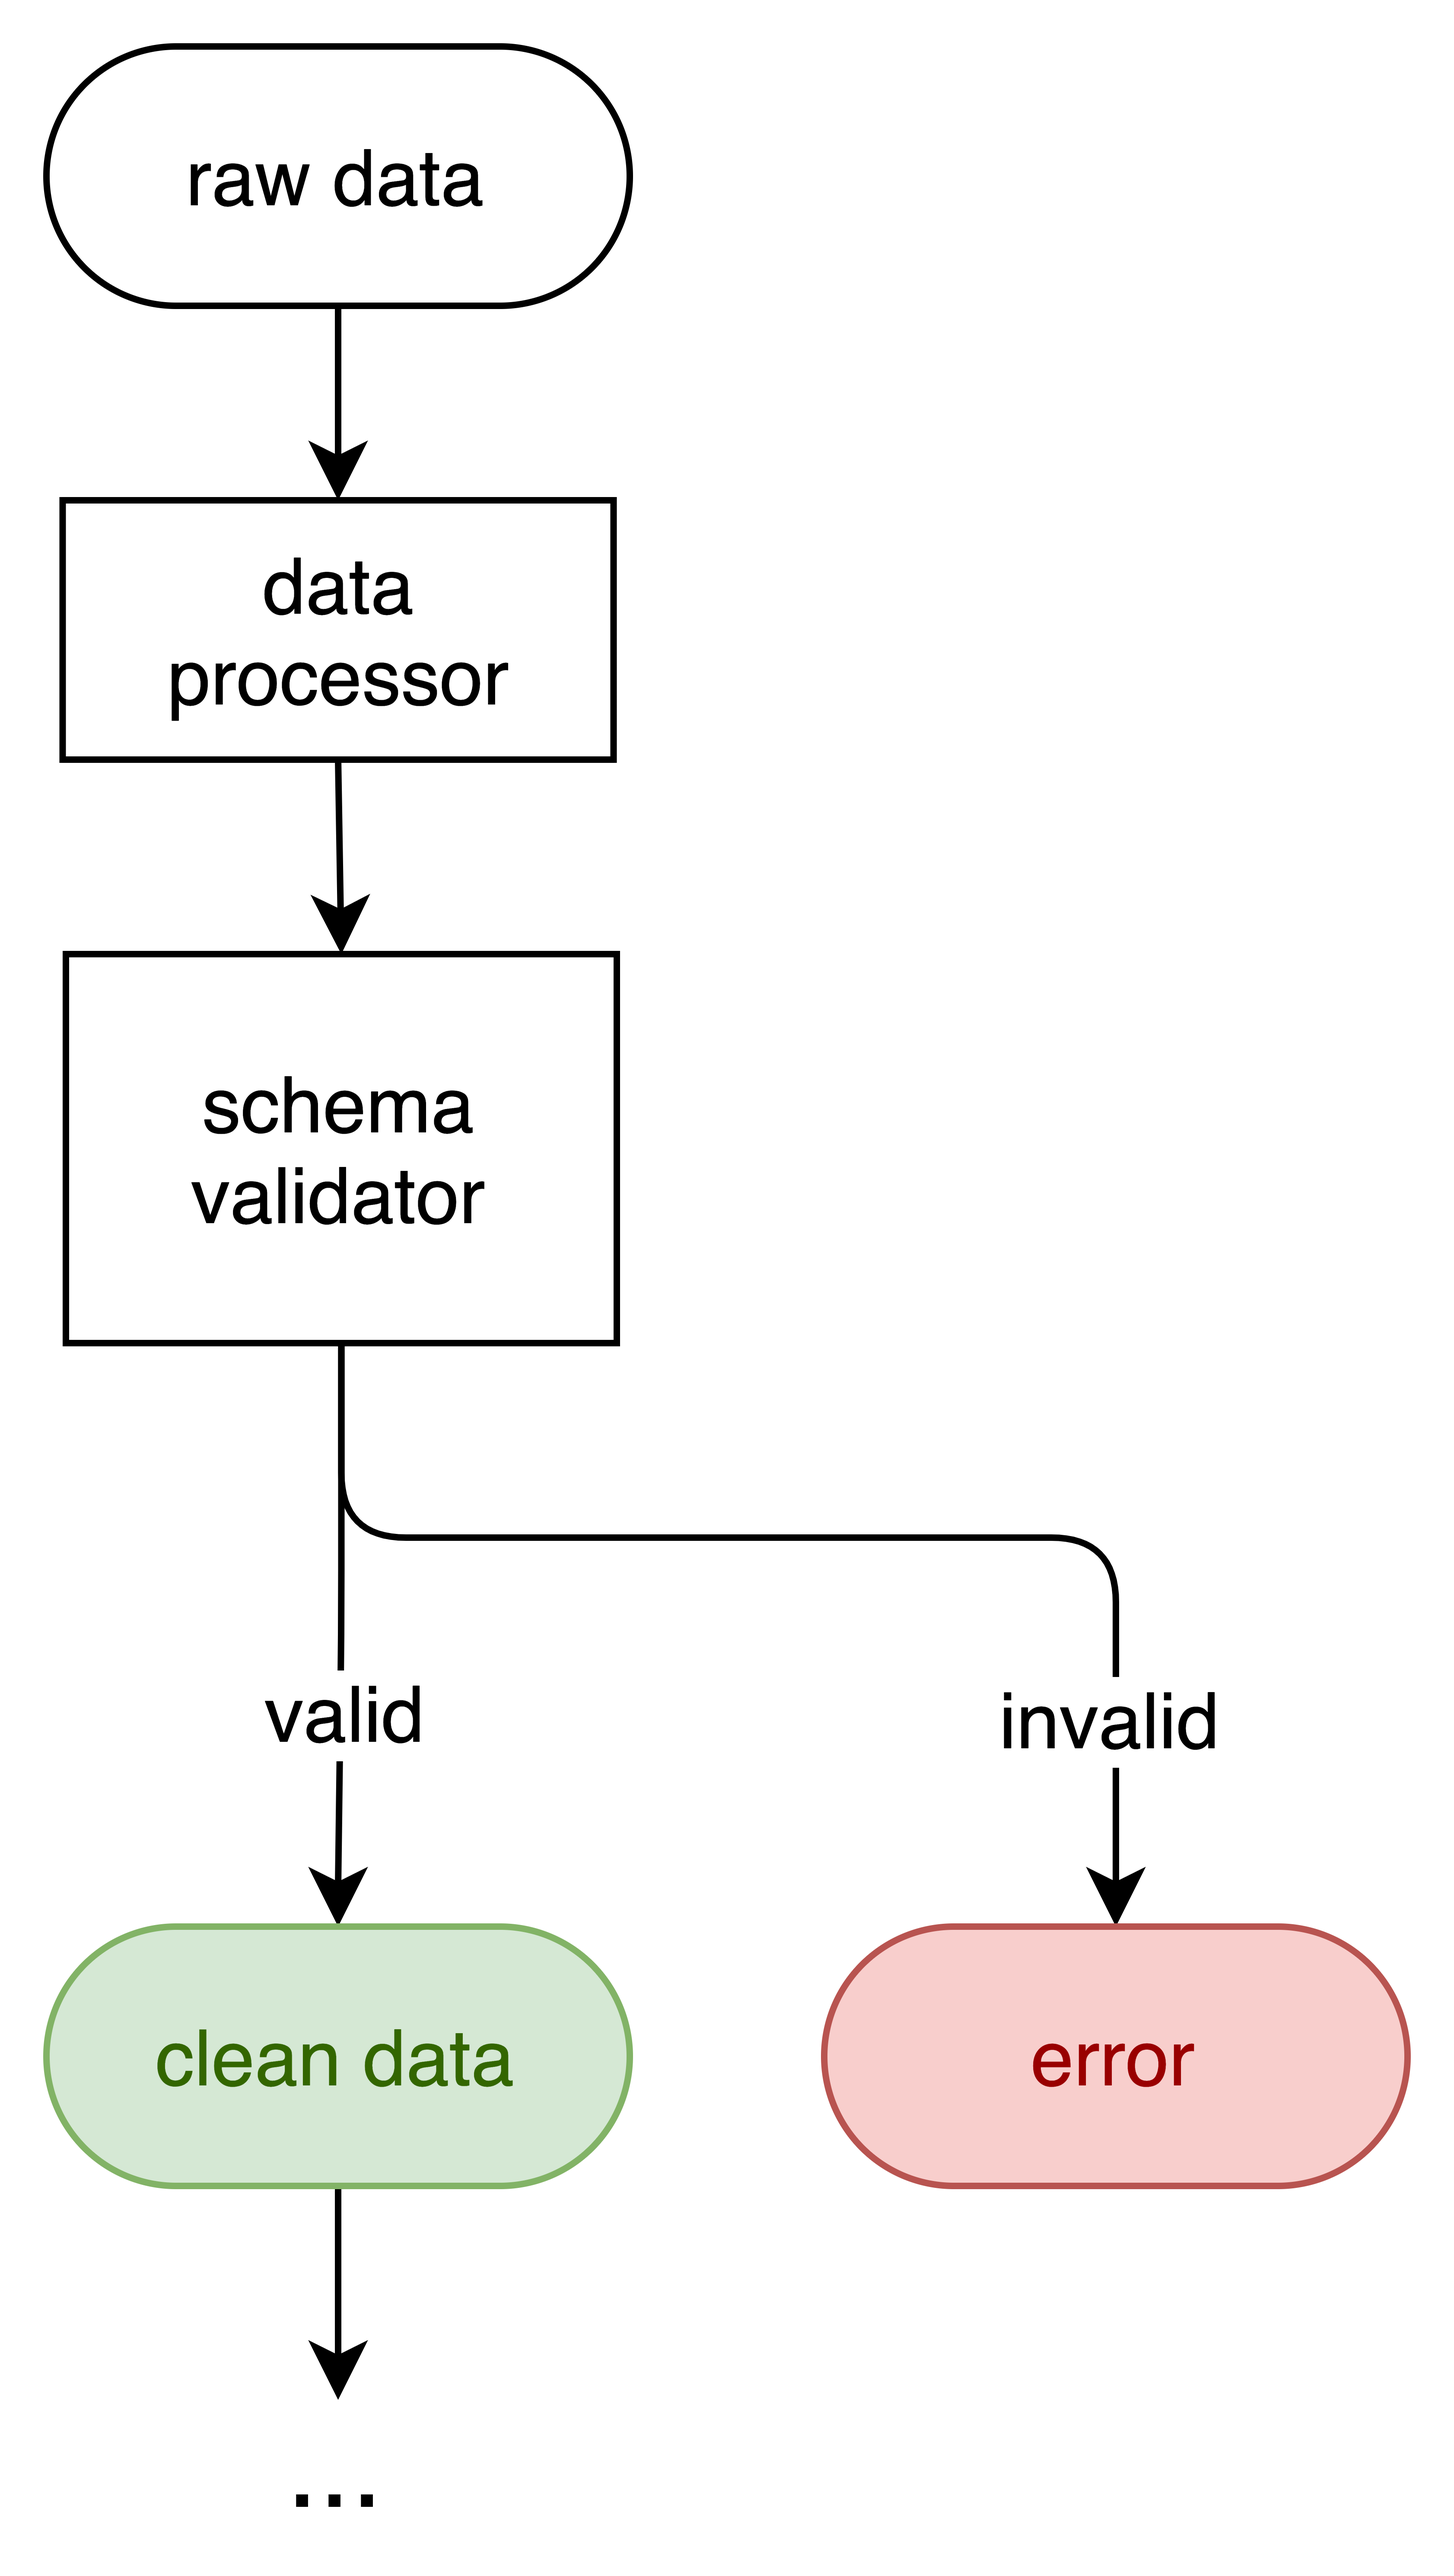
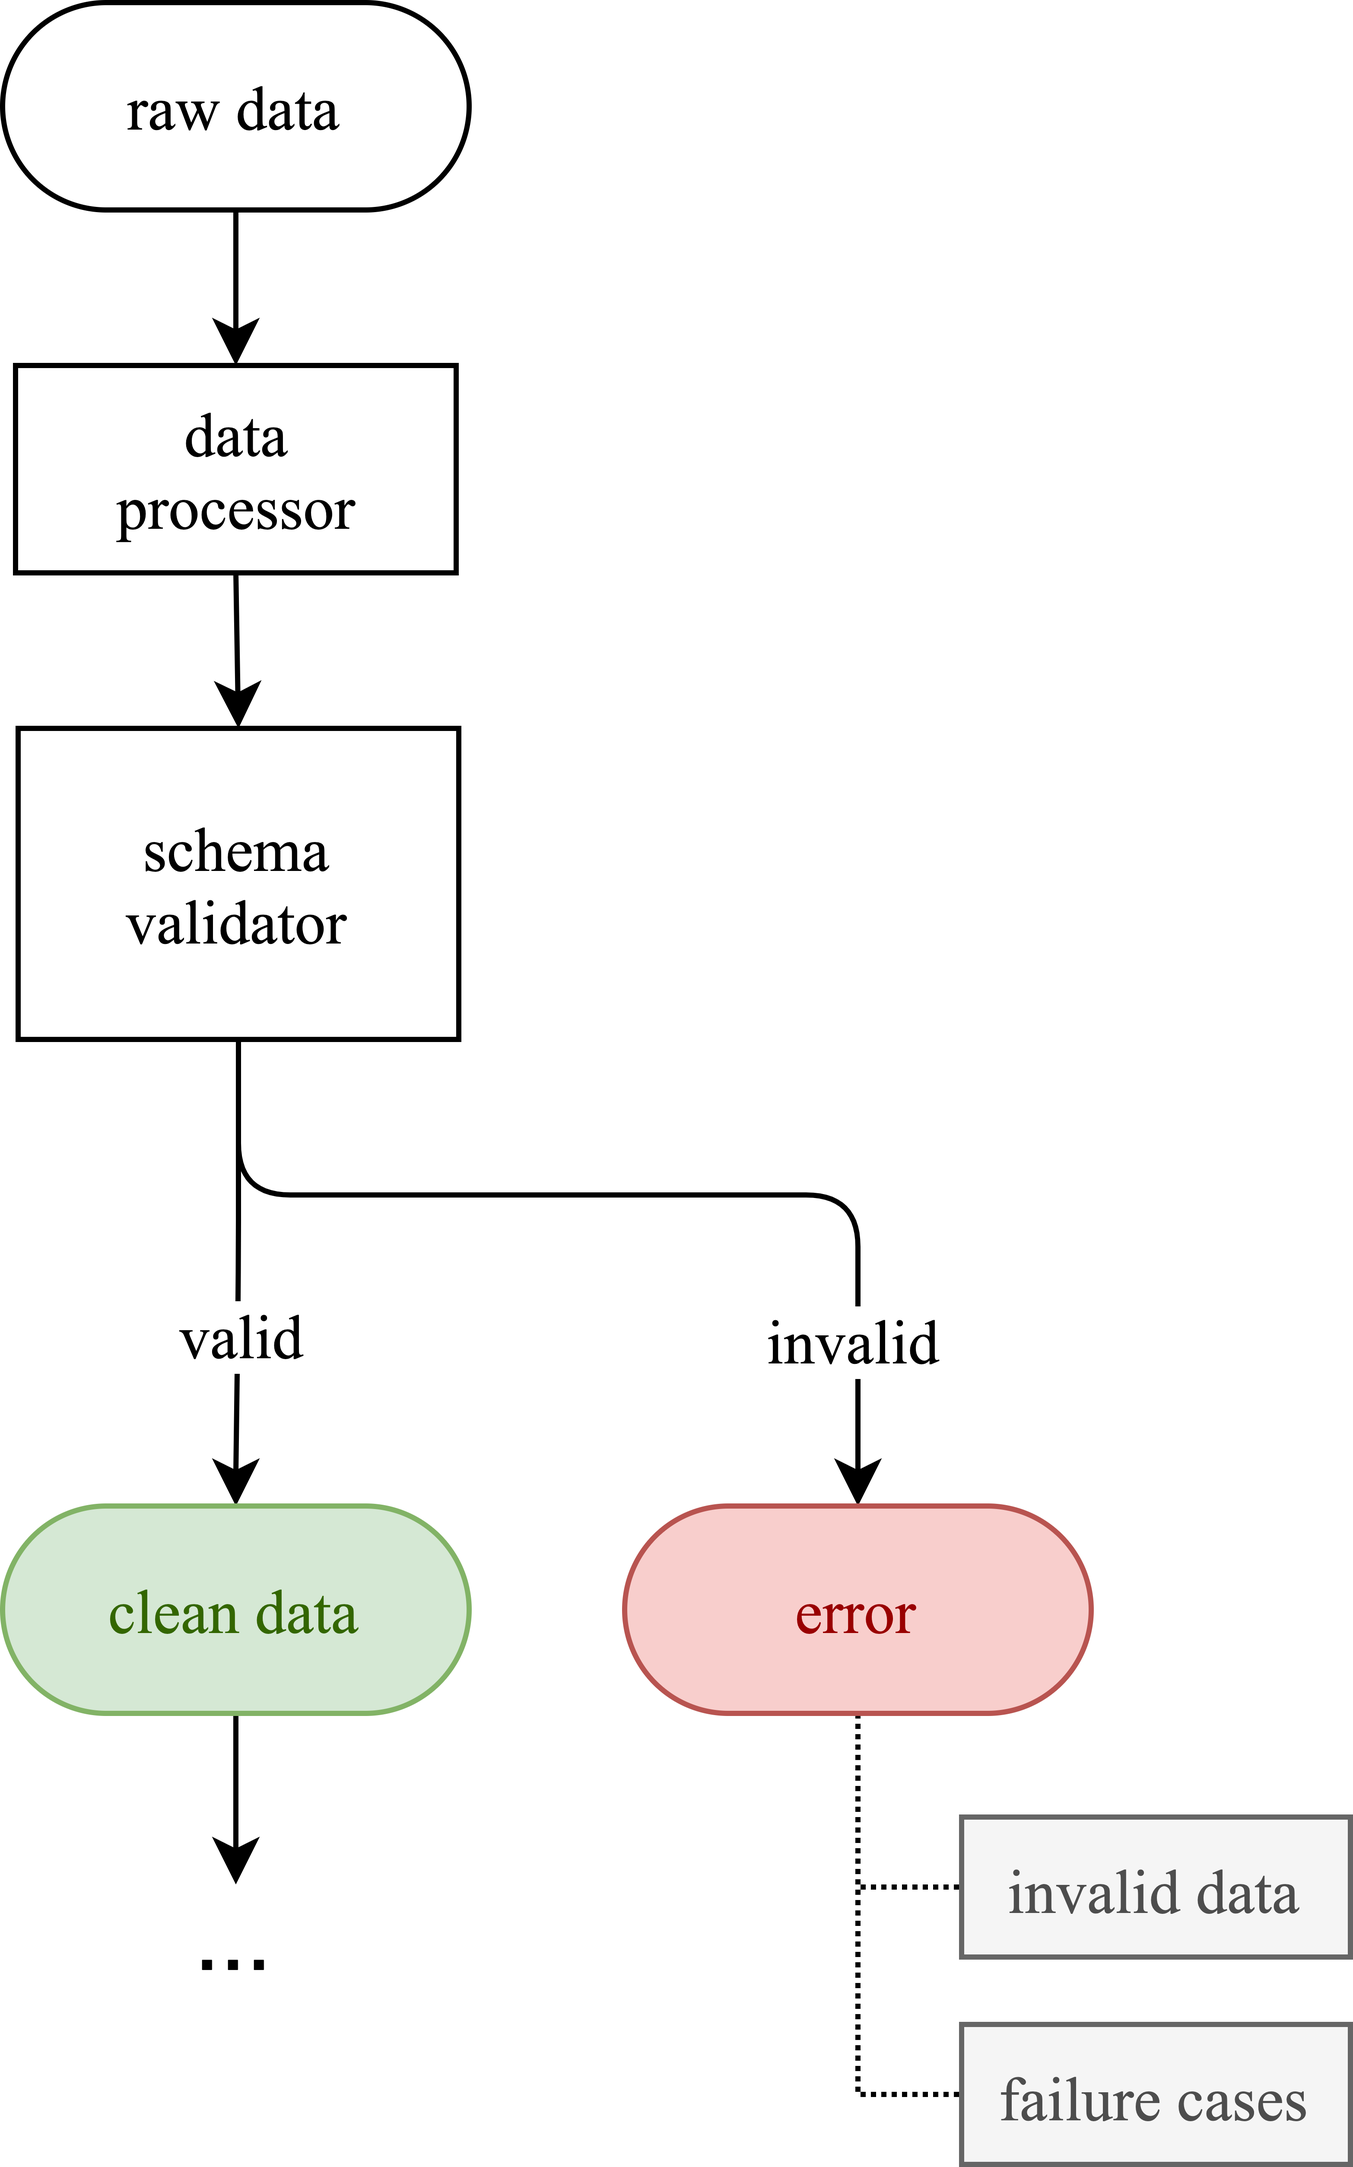
edits: replace gender in example, add more dtypes, update architecture figure

diff --git a/papers/niels_bantilan/paper.rst b/papers/niels_bantilan/paper.rst
@@ -2,6 +2,7 @@
 :email: niels.bantilan@gmail.com
 :institution: Talkspace
 :institution: pyOpenSci
+:orcid: 0000-0003-1713-5772
 :corresponding:
 :bibliography: refs
 
@@ -107,18 +108,18 @@ variables, data types, and meta-properties of what constitutes a valid or
 invalid data structure, such as uniqueness and nullability. On the other hand,
 domain-specific validation rules describe properties of the data that are
 specific to the particular topic under study. For example, a census dataset
-might contain ``age``, ``income``, ``education``, and ``sex`` columns that are
-encoded in specific ways depending on the way the census was conducted.
-Reasonable validation rules might be:
+might contain ``age``, ``income``, ``education``, and ``job_category`` columns
+that are encoded in specific ways depending on the way the census was
+conducted. Reasonable validation rules might be:
 
 * The ``age`` and ``income`` variables must be positive integers.
 * The ``age`` variable must be below 122 [#]_.
 * Records where ``age`` is below the legal working age should have ``NA``
   values in the ``income`` field.
-* Elements in the ``sex`` column must be a member of the unordered set
-  ``{male, female}``.
 * ``education`` is an ordinal variable that must be a member of the ordered
-  set ``{high school, bachelors, graduate, post graduate}``.
+  set ``{none, high school, undergraduate, graduate}``.
+* ``job_category`` is an unordered categorical variable that must be a member of
+  the set ``{professional, manegerial, service, clerical, agricultural, technical}``.
 
 
 .. [#] The age of the oldest person:
@@ -136,22 +137,23 @@ incorporate any assumptions about randomness into the validation function.
 
 Often times we can express statistical properties about data using
 deterministic or probabilistic checks. For example, "the mean age among the
-``female`` sample tends to be higher than that of the ``male`` sample in
-the surveyed population" can be verified deterministically by simply computing
-the means of the two samples and applying the logical rule
-:math:`mean(age_{female}) > mean(age_{male})`. A probabilistic version of this
-check would be to perform a hypothesis test, like a t-test with a pre-defined
-alpha value. Most probabilistic checks can be reduced to deterministic checks,
-for instance by simply evaluating the truth/falseness of a validation rule using
-the test statistic that results from the hypothesis test and ignoring the
-p-value. Doing this simplifies the validation rule but trades off simplicity
-for being unable to express uncertainty and statistical significance. Other
-examples of such probabilistic checks might be:
+``graduate`` sample tends to be higher than that of the ``undergraduate``
+sample in the surveyed population" can be verified deterministically by simply
+computing the means of the two samples and applying the logical rule
+:math:`mean(age_{graduate}) > mean(age_{undergraduate})`. A probabilistic
+version of this check would be to perform a hypothesis test, like a t-test with
+a pre-defined alpha value. Most probabilistic checks can be reduced to
+deterministic checks, for instance by simply evaluating the truth/falseness of
+a validation rule using the test statistic that results from the hypothesis
+test and ignoring the p-value. Doing this simplifies the validation rule but
+trades off simplicity for being unable to express uncertainty and statistical
+significance. Other examples of such probabilistic checks might be:
 
 * The ``income`` variable is positively correlated with the ``education``
   variable.
-* ``income`` is negatively correlated with the dummy variable ``is_female`` ,
-  which is a variable derived from the ``sex`` column.
+* ``income`` is negatively correlated with the dummy variable
+  ``job_category_service``, which is a variable derived from the
+  ``job_category`` column.
 
 
 Data Validation in Practice
@@ -299,9 +301,14 @@ about that person:
    import pandas as pd
 
    dataframe = pd.DataFrame({
-       "person_id": [1, 2, 3, 4, 5],
-       "height_in_feet": [6.5, 7, 6.1, 5.1, 6.2],
-       "gender": ["M", "F", "N", None, "F"],
+       "person_id": [1, 2, 3, 4],
+       "height_in_feet": [6.5, 7, 6.1, 5.1],
+       "date_of_birth": pd.to_datetime([
+           "2005", "2000", "1995", "2000",
+       ]),
+       "education": [
+           "highschool", "undergrad", "grad", "undergrad",
+       ],
    })
 
 We can see from inspecting the column names and data values that we can bring
@@ -313,13 +320,28 @@ are considered valid data.
    import pandera as pa
    from pandera import Column
 
-   typed_schema = pa.DataFrameSchema({
-       "person_id": Column(pa.Int),
-       "height_in_feet": Column(pa.Float),
-       "gender": Column(pa.String),
-   })
+   typed_schema = pa.DataFrameSchema(
+       {
+           "person_id": Column(pa.Int),
 
-   schema(dataframe)  # returns the dataframe
+           # numpy and pandas data type string
+           # aliases are supported
+           "height_in_feet": Column("float"),
+           "date_of_birth": Column("datetime64[ns]"),
+
+           # pandas dtypes are also supported
+           # string dtype available in pandas v1.0.0+
+           "education": Column(
+               pd.StringDtype(),
+               nullable=True
+           ),
+       },
+
+       # coerce types when dataframe is validated
+       coerce=True
+   )
+
+   typed_schema(dataframe)  # returns the dataframe
 
 Validation Checks
 ~~~~~~~~~~~~~~~~~
@@ -334,22 +356,35 @@ populate those columns:
    import pandera as pa
    from pandera import Column, Check
 
-   schema = pa.DataFrameSchema({
-       "person_id": Column(
-           pa.Int,
-           Check.greater_than(0),
-           allow_duplicates=False,
-       ),
-       "height_in_feet": Column(
-           pa.Float,
-           Check.in_range(0, 10),
-       ),
-       "gender": Column(
-           pa.String,
-           Check.isin(["F", "M", "N"]),
-           nullable=True,
-       ),
-   })
+   checked_schema = pa.DataFrameSchema(
+       {
+           "person_id": Column(
+               pa.Int,
+               Check.greater_than(0),
+               allow_duplicates=False,
+           ),
+           "height_in_feet": Column(
+               "float",
+               Check.in_range(0, 10),
+           ),
+           "date_of_birth": Column(
+              "datetime64[ns]",
+              Check.less_than_or_equal_to(
+                  pd.Timestamp.now()
+              ),
+           ),
+           "education": Column(
+               pd.StringDtype(),
+               Check.isin([
+                   "highschool",
+                   "undergrad",
+                   "grad",
+               ]),
+               nullable=True,
+           ),
+       },
+       coerce=True
+   )
 
 The schema definition above establishes the following properties about the
 data:
@@ -360,9 +395,10 @@ data:
   is a unique identifier in this dataset.
 * ``height_in_feet`` is a positive float whose maximum value is 10 feet, which
   is a reasonable assumption for the maximum height of human beings.
-* ``gender`` can take on the acceptable values in the set ``{F, M, N}`` for
-  female, male, and non-binary, respectively. Supposing that these data were
-  collected in an online form where the ``gender`` field input was optional,
+* ``date_of_birth`` cannot be a date in the future.
+* ``education`` can take on the acceptable values in the set
+  ``{"highschool", "undergrad", "grad"}``. Supposing that these data
+  were collected in an online form where the ``education`` field input was optional,
   it would be appropriate to set ``nullable`` to ``True`` (this argument is
   ``False`` by default).
 
@@ -378,7 +414,12 @@ pass the validation checks, ``pandera`` provides an informative error message:
    invalid_dataframe = pd.DataFrame({
        "person_id": [6, 7, 8, 9],
        "height_in_feet": [-10, 20, 20, 5.1],
-       "gender": ["F", "M", "N", "M"],
+       "date_of_birth": pd.to_datetime([
+           "2005", "2000", "1995", "2000",
+       ]),
+       "education": [
+           "highschool", "undergrad", "grad", "undergrad",
+       ],
    })
 
    checked_schema(invalid_dataframe)
@@ -421,14 +462,14 @@ the ``SchemaError`` object:
 .. code-block:: python
 
    # Output:
-   Failed check <Check _in_range: in_range(0, 10)>
+   Failed check: <Check _in_range: in_range(0, 10)>
 
    Invalidated dataframe:
-      person_id  height_in_feet gender
-   0          6           -10.0      F
-   1          7            20.0      X
-   2          8            20.0      N
-   3          9             5.1      M
+      person_id  height_in_feet date_of_birth   education
+   0          6           -10.0    2005-01-01  highschool
+   1          7            20.0    2000-01-01   undergrad
+   2          8            20.0    1995-01-01        grad
+   3          9             5.1    2000-01-01        none
 
    Failure cases:
       index  failure_case
